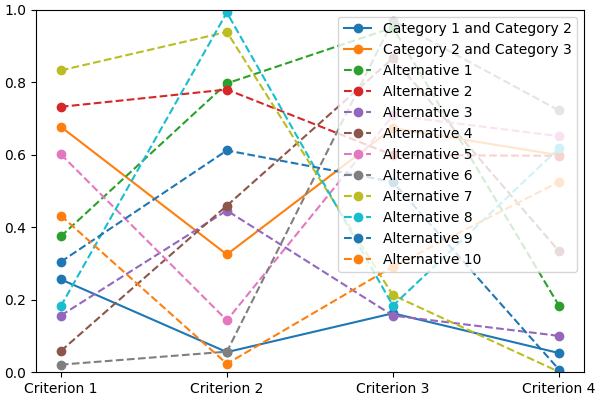
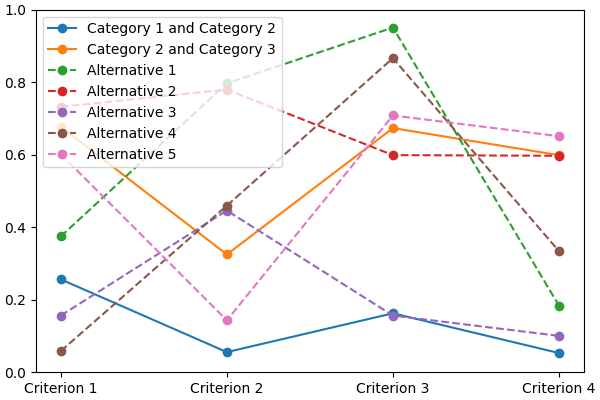
Update readme to demonstrate learning an MR-Sort model

diff --git a/lincs/command_line_interface.py b/lincs/command_line_interface.py
@@ -330,6 +330,11 @@ def visualize():
     type=click.File(mode="r"),
     help="Add the alternatives from this *classified alternatives* file to the visualization.",
 )
+@click.option(
+    "--alternatives-count",
+    type=int,
+    help="Add only this number of alternatives.",
+)
 @click.argument(
     "output",
     type=click.File(mode="wb"),
@@ -338,13 +343,14 @@ def classification_model(
     domain,
     model,
     alternatives,
+    alternatives_count,
     output,
 ):
     domain = lincs.load_domain(domain)
     model = lincs.load_model(domain, model)
     if alternatives is not None:
         alternatives = lincs.load_alternatives(domain, alternatives)
-    lincs.visualization.visualize_model(domain, model, alternatives, output)
+    lincs.visualization.visualize_model(domain, model, alternatives, alternatives_count, output)
 
 
 @main.group(

diff --git a/lincs/visualization.py b/lincs/visualization.py
@@ -1,7 +1,7 @@
 import matplotlib.pyplot as plt
 
 
-def visualize_model(domain, model, alternatives, out):
+def visualize_model(domain, model, alternatives, alternatives_count, out):
     fig, ax = plt.subplots(1, 1, figsize=(6, 4), layout="constrained")
 
     xs = [criterion.name for criterion in domain.criteria]
@@ -10,7 +10,7 @@ def visualize_model(domain, model, alternatives, out):
         ax.plot(xs, list(boundary.profile), "o-", label=label)
 
     if alternatives:
-        for alternative in alternatives.alternatives:
+        for alternative in alternatives.alternatives[:alternatives_count]:
             ax.plot(xs, list(alternative.profile), "o--", label=alternative.name)
 
     ax.legend()

diff --git a/README.md b/README.md
@@ -167,6 +167,7 @@ Generate a classification domain with 4 criteria and 3 categories (@todo Link to
 
 <!-- EXTEND command-line-example/run.sh -->
     lincs generate classification-domain 4 3 --output-domain domain.yml
+<!-- APPEND-TO-LAST-LINE --random-seed 40 -->
 <!-- STOP -->
 
 The generated `domain.yml` should look like:
@@ -258,11 +259,11 @@ It should output something like:
 And finally generate a set of classified alternatives (@todo Link to concepts and file formats):
 
 <!-- EXTEND command-line-example/run.sh -->
-    lincs generate classified-alternatives domain.yml model.yml 10 --output-classified-alternatives learning-set.csv
+    lincs generate classified-alternatives domain.yml model.yml 1000 --output-classified-alternatives learning-set.csv
 <!-- APPEND-TO-LAST-LINE --random-seed 42 -->
 <!-- STOP -->
 
-It should look like:
+It should start with something like this, and contain 1000 alternatives:
 
 <!-- START command-line-example/expected-learning-set.csv -->
     name,"Criterion 1","Criterion 2","Criterion 3","Criterion 4",category
@@ -271,21 +272,16 @@ It should look like:
     "Alternative 3",0.156018645,0.445832759,0.15599452,0.0999749228,"Category 1"
     "Alternative 4",0.0580836125,0.4592489,0.866176128,0.333708614,"Category 3"
     "Alternative 5",0.601114988,0.14286682,0.708072603,0.650888503,"Category 2"
-    "Alternative 6",0.0205844995,0.0564115755,0.969909847,0.721998751,"Category 2"
-    "Alternative 7",0.832442641,0.938552737,0.212339118,0.000778764719,"Category 2"
-    "Alternative 8",0.181824967,0.99221158,0.183404505,0.61748153,"Category 2"
-    "Alternative 9",0.304242253,0.611653149,0.524756432,0.00706630852,"Category 2"
-    "Alternative 10",0.431945026,0.0230624285,0.291229129,0.524774671,"Category 1"
 <!-- STOP -->
 
 <!-- EXTEND command-line-example/run.sh --><!--
-    diff expected-learning-set.csv learning-set.csv
+    diff expected-learning-set.csv <(head -n 6 learning-set.csv)
 --><!-- STOP -->
 
-You can visualize it using:
+You can visualize its first five alternatives using:
 
 <!-- EXTEND command-line-example/run.sh -->
-    lincs visualize classification-model domain.yml model.yml --alternatives learning-set.csv alternatives.png
+    lincs visualize classification-model domain.yml model.yml --alternatives learning-set.csv --alternatives-count 5 alternatives.png
 <!-- STOP -->
 <!-- EXTEND command-line-example/run.sh --><!--
     cp alternatives.png ../../..
@@ -307,7 +303,7 @@ You can use it to train a new model:
 <!-- EXTEND command-line-example/run.sh -->
     # @todo Rename the command to `train`?
     lincs learn classification-model domain.yml learning-set.csv --output-model trained-model.yml
-<!-- APPEND-TO-LAST-LINE --mrsort.weights-profiles-breed.accuracy-heuristic.random-seed 44 -->
+<!-- APPEND-TO-LAST-LINE --mrsort.weights-profiles-breed.accuracy-heuristic.random-seed 43 -->
 <!-- STOP -->
 
 The trained model has the same structure as the original (synthetic) model because they are both MR-Sort models for the same domain,
@@ -318,28 +314,28 @@ but the trained model is numerically different because information was lost in t
     format_version: 1
     boundaries:
       - profile:
-          - 0.222505912
-          - 0.0326468721
-          - 0.183235198
-          - 0.139134333
+          - 0.00751833664
+          - 0.0549556538
+          - 0.162616938
+          - 0.193127945
         sufficient_coalitions:
           kind: weights
           criterion_weights:
-            - 0
-            - 1.01327896e-06
-            - 0.999998987
+            - 0.499998987
+            - 0.5
+            - 0.5
             - 0
       - profile:
-          - 0.37454012
-          - 0.440971017
-          - 0.708072603
-          - 0.313625544
+          - 0.0340298451
+          - 0.324480206
+          - 0.672487617
+          - 0.427051842
         sufficient_coalitions:
           kind: weights
           criterion_weights:
-            - 0
-            - 1.01327896e-06
-            - 0.999998987
+            - 0.499998987
+            - 0.5
+            - 0.5
             - 0
 <!-- STOP -->
 
@@ -353,8 +349,8 @@ To see how close a trained model is to the original one, you can reclassify a te
 First, generate a testing set:
 
 <!-- EXTEND command-line-example/run.sh -->
-    lincs generate classified-alternatives domain.yml model.yml 100 --output-classified-alternatives testing-set.csv
-<!-- APPEND-TO-LAST-LINE --random-seed 43 -->
+    lincs generate classified-alternatives domain.yml model.yml 10000 --output-classified-alternatives testing-set.csv
+<!-- APPEND-TO-LAST-LINE --random-seed 44 -->
 <!-- STOP -->
 
 And ask the trained model to classify it:
@@ -373,52 +369,30 @@ There are a few differences between the original testing set and the reclassifie
 That command should show a few alternatives that are not classified the same way by the original and the trained model:
 
 <!-- START command-line-example/expected-classification-diff.txt -->
-    5c5
-    < "Alternative 4",0.66609019,0.0450528637,0.541162193,0.612132132,"Category 1"
+    2595c2595
+    < "Alternative 2594",0.234433308,0.780464768,0.162389532,0.622178912,"Category 2"
     ---
-    > "Alternative 4",0.66609019,0.0450528637,0.541162193,0.612132132,"Category 2"
-    11c11
-    < "Alternative 10",0.0766626969,0.415868759,0.843224704,0.65300566,"Category 3"
+    > "Alternative 2594",0.234433308,0.780464768,0.162389532,0.622178912,"Category 1"
+    5000c5000
+    < "Alternative 4999",0.074135974,0.496049821,0.672853291,0.782560945,"Category 2"
     ---
-    > "Alternative 10",0.0766626969,0.415868759,0.843224704,0.65300566,"Category 2"
-    19c19
-    < "Alternative 18",0.978204131,0.396694243,0.908662736,0.874302804,"Category 3"
+    > "Alternative 4999",0.074135974,0.496049821,0.672853291,0.782560945,"Category 3"
+    5346c5346
+    < "Alternative 5345",0.815349102,0.580399215,0.162403136,0.995580792,"Category 2"
     ---
-    > "Alternative 18",0.978204131,0.396694243,0.908662736,0.874302804,"Category 2"
-    21c21
-    < "Alternative 20",0.104018949,0.118452221,0.180914596,0.937555075,"Category 2"
+    > "Alternative 5345",0.815349102,0.580399215,0.162403136,0.995580792,"Category 1"
+    9639c9639
+    < "Alternative 9638",0.939305425,0.0550933145,0.247014269,0.265170485,"Category 1"
     ---
-    > "Alternative 20",0.104018949,0.118452221,0.180914596,0.937555075,"Category 1"
-    30c30
-    < "Alternative 29",0.670145154,0.436539501,0.70471561,0.775865197,"Category 3"
+    > "Alternative 9638",0.939305425,0.0550933145,0.247014269,0.265170485,"Category 2"
+    9689c9689
+    < "Alternative 9688",0.940304875,0.885046899,0.162586793,0.515185535,"Category 2"
     ---
-    > "Alternative 29",0.670145154,0.436539501,0.70471561,0.775865197,"Category 2"
-    55c55
-    < "Alternative 54",0.941554248,0.385999501,0.776895344,0.0133778816,"Category 3"
+    > "Alternative 9688",0.940304875,0.885046899,0.162586793,0.515185535,"Category 1"
+    9934c9934
+    < "Alternative 9933",0.705289483,0.11529737,0.162508503,0.0438248962,"Category 2"
     ---
-    > "Alternative 54",0.941554248,0.385999501,0.776895344,0.0133778816,"Category 2"
-    62c62
-    < "Alternative 61",0.644370496,0.045737762,0.204706222,0.241902217,"Category 1"
-    ---
-    > "Alternative 61",0.644370496,0.045737762,0.204706222,0.241902217,"Category 2"
-    65c65
-    < "Alternative 64",0.969255507,0.575699627,0.700975716,0.418971717,"Category 3"
-    ---
-    > "Alternative 64",0.969255507,0.575699627,0.700975716,0.418971717,"Category 2"
-    82c82
-    < "Alternative 81",0.952283025,0.75682044,0.166070178,0.381708086,"Category 2"
-    ---
-    > "Alternative 81",0.952283025,0.75682044,0.166070178,0.381708086,"Category 1"
-    95,96c95,96
-    < "Alternative 94",0.350305974,0.0394307449,0.502436459,0.493587255,"Category 1"
-    < "Alternative 95",0.703539133,0.752842247,0.171627671,0.723626018,"Category 2"
-    ---
-    > "Alternative 94",0.350305974,0.0394307449,0.502436459,0.493587255,"Category 2"
-    > "Alternative 95",0.703539133,0.752842247,0.171627671,0.723626018,"Category 1"
-    98c98
-    < "Alternative 97",0.826578379,0.0424774401,0.332701623,0.678165853,"Category 1"
-    ---
-    > "Alternative 97",0.826578379,0.0424774401,0.332701623,0.678165853,"Category 2"
+    > "Alternative 9933",0.705289483,0.11529737,0.162508503,0.0438248962,"Category 1"
 <!-- STOP -->
 
 <!-- EXTEND command-line-example/run.sh --><!--
@@ -435,7 +409,7 @@ You can also measure the classification accuracy of the trained model on that te
 It should be close to 100%:
 
 <!-- START command-line-example/expected-classification-accuracy.txt -->
-    88/100
+    9994/10000
 <!-- STOP -->
 
 <!-- EXTEND command-line-example/run.sh --><!--
